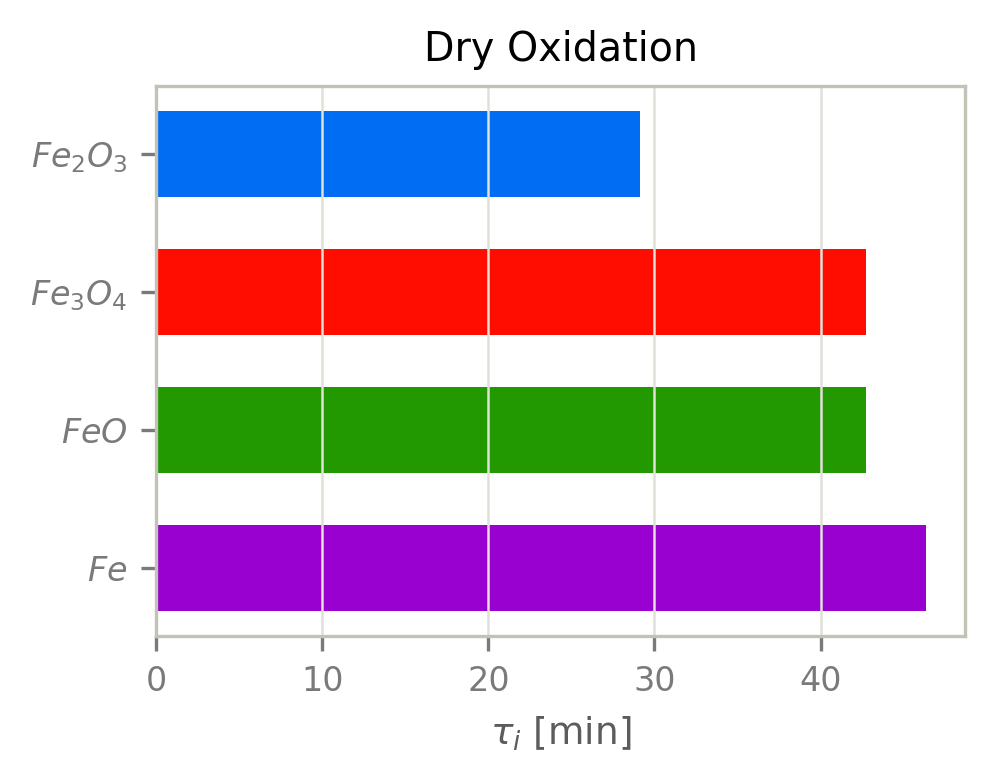
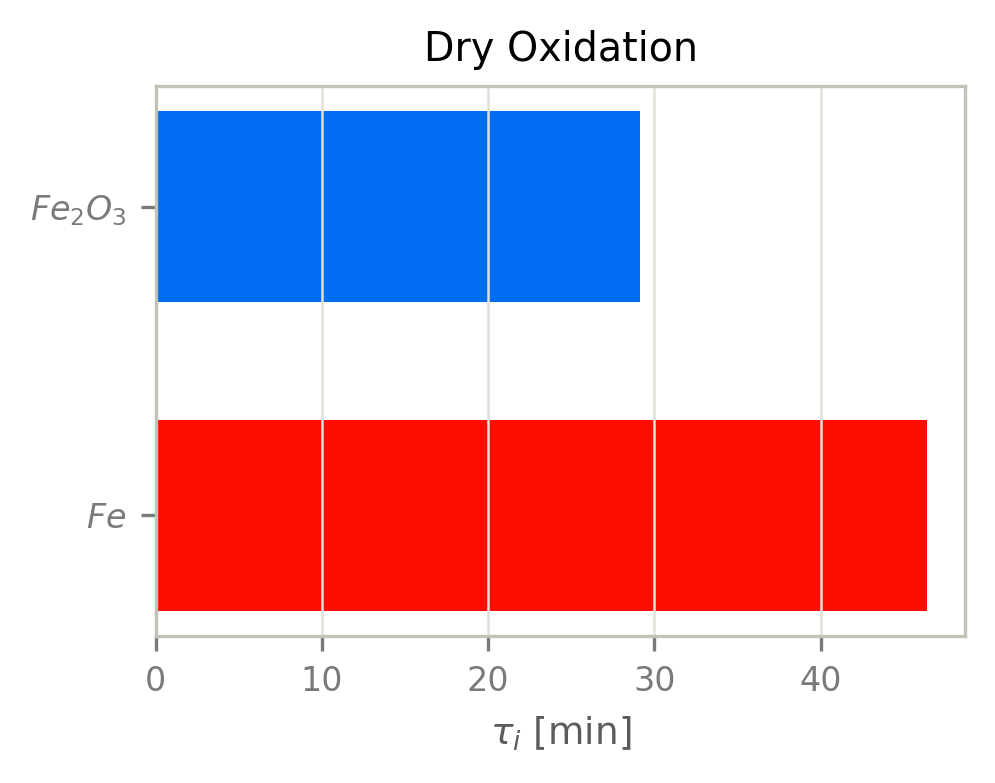
Small correction for the dry oxidation residence time was made

diff --git a/Plots/Scripts/plot_R_residence.py b/Plots/Scripts/plot_R_residence.py
@@ -52,7 +52,7 @@ def main():
             mdot_i = meta["solid_mass_out"] * rows[-1][f"w_{key}"]
             # Absent species = exact zero 
             taus[key] = (m_i / mdot_i
-                         if mdot_i > meta["solid_mass_out"] * 1e-6 else None)
+                         if mdot_i > meta["solid_mass_out"] * 1e-4 else None)
 
         # Absent species get no bar
         plot_species = [(k, lbl) for k, lbl in SPECIES if taus[k] is not None]
